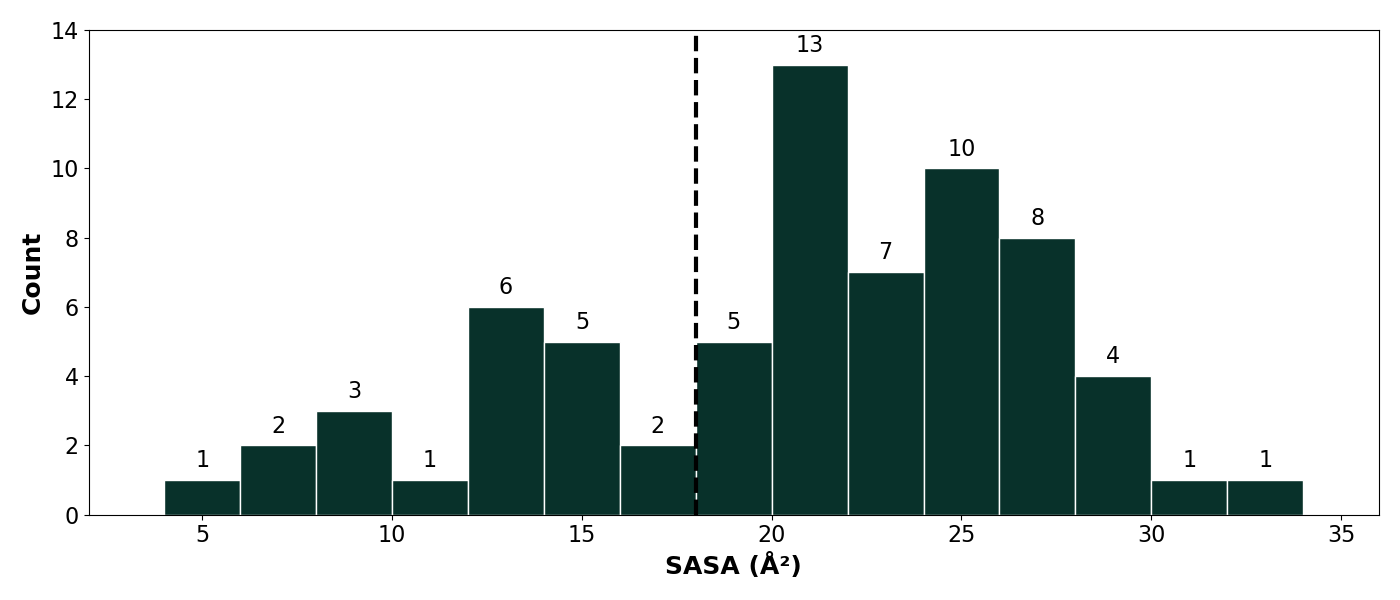
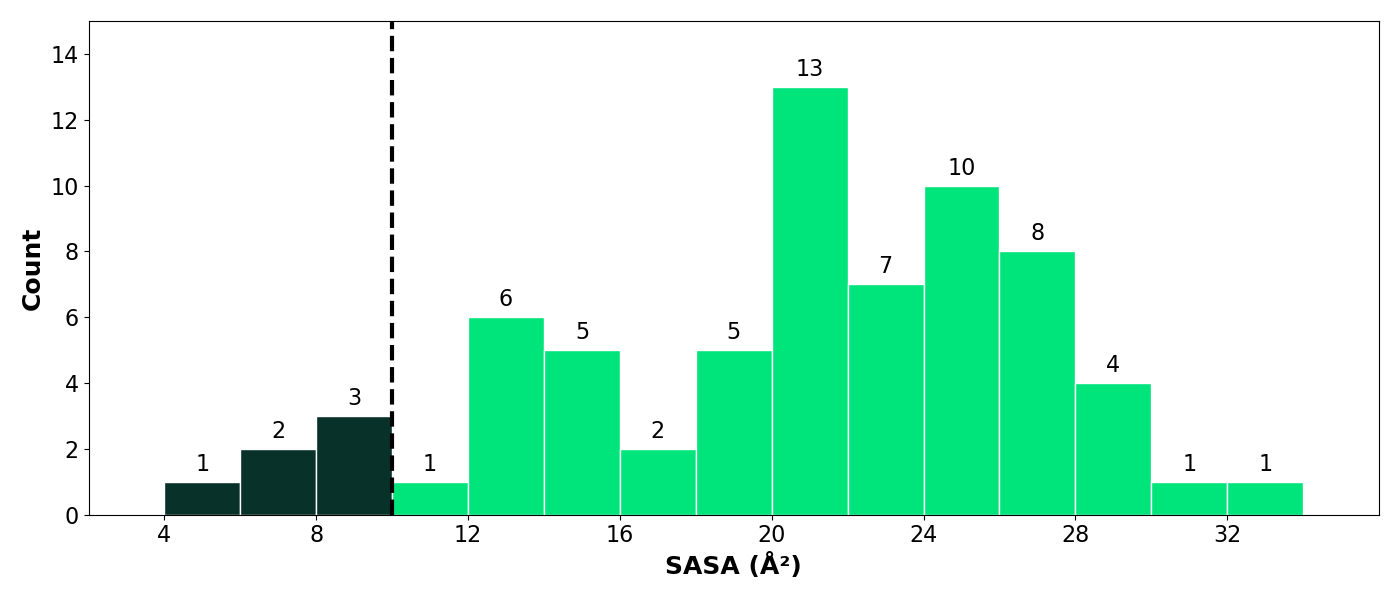
checkpoint

diff --git a/04_statistics/gen_1/03_sasa_distribution.py b/04_statistics/gen_1/03_sasa_distribution.py
@@ -45,6 +45,10 @@ n, bins, patches = ax.hist(
     stacked=True,
 )
 
+# Set the last bins to be light green
+for patch in patches[5:]:
+    patch.set_facecolor('#00E47C')
+
 # Annotate each bar with the count
 for patch in patches:
     height = patch.get_height()
@@ -53,7 +57,7 @@ for patch in patches:
             f"{int(height)}",
             xy=(
                 patch.get_x() + patch.get_width() / 2,
-                height + 1 / 25 * 14,
+                height + 1 / 30 * 16,
             ),
             xytext=(0, 0),  
             textcoords="offset points",
@@ -62,15 +66,22 @@ for patch in patches:
             fontsize=16,
         )
 
+
+
+# Set x-axis ticks from 68 to 106 with a step of 4
+ax.set_xticks(range(0, 36, 4))
+
 # Set labels and legend
 ax.set_xlabel("SASA (Å²)", fontsize=18, fontweight="bold")
 ax.set_ylabel("Count", fontsize=18, fontweight="bold")
 # ax.legend(frameon=False, loc="upper left")
 
-# Add a vertical dash line at x=18
-ax.axvline(x=18, color="black", linestyle="--", linewidth=3)
+# Add a vertical dash line at x=10
+ax.axvline(x=10, color="black", linestyle="--", linewidth=3)
 ax.set_xlim(2, 36)
-ax.set_ylim(0, 14)
+ax.set_ylim(0, 15)
+
+
 
 plt.xticks(fontsize=16)
 plt.yticks(fontsize=16)

diff --git a/04_statistics/gen_1/01_bde_distribution.py b/04_statistics/gen_1/01_bde_distribution.py
@@ -41,6 +41,10 @@ n, bins, patches = ax.hist(
     stacked=True,
 )
 
+# Set the last bins to be light green
+for patch in patches[:-7]:
+    patch.set_facecolor('#00E47C')
+
 # Annotate each bar with the count
 for patch in patches:
     height = patch.get_height()
@@ -49,7 +53,7 @@ for patch in patches:
             f"{int(height)}",
             xy=(
                 patch.get_x() + patch.get_width() / 2,
-                height + 1,
+                height + 1 / 30 * 18,
             ),
             xytext=(0, 0),  
             textcoords="offset points",
@@ -57,6 +61,9 @@ for patch in patches:
             va="center",
             fontsize=16,
         )
+
+# Set x-axis ticks from 68 to 106 with a step of 4
+ax.set_xticks(range(70, 106, 4))
 
 # rotate the x-axis labels
 ax.set_xlabel("BDE (kcal/mol)", fontsize=18, fontweight="bold")
@@ -68,8 +75,8 @@ plt.yticks(fontsize=16)
 
 # Add a vertical dash line at x=94
 ax.axvline(x=94, color="black", linestyle="--", linewidth=3)
-ax.set_xlim(68, 107)
-ax.set_ylim(0, 25)
+ax.set_xlim(68, 106)
+ax.set_ylim(0, 18)
 # ax.legend(frameon=False, loc="upper left")
 
 plt.tight_layout()
